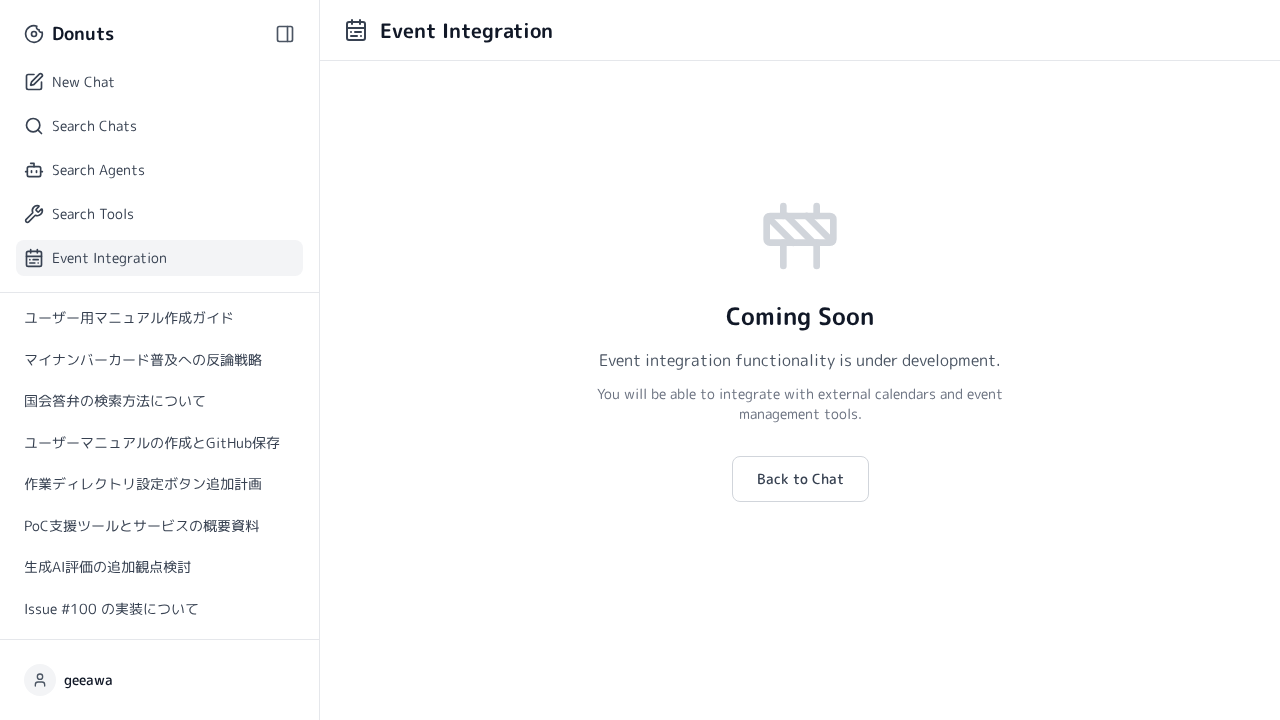
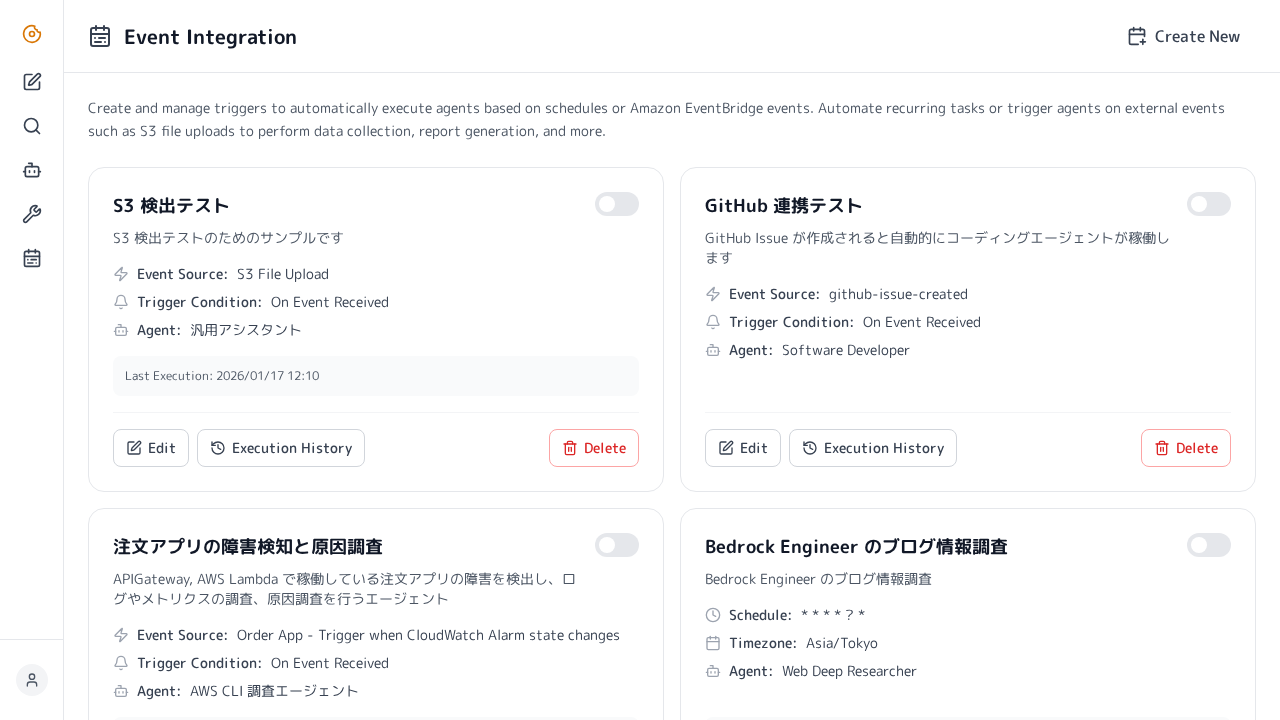
Update Event Integration documentation with comprehensive screenshots
- Added detailed Event Integration section with 5 new screenshots
- Documented Schedule trigger configuration (presets and custom cron)
- Documented Event-Driven trigger configuration (S3, CloudWatch, etc.)
- Added Execution History documentation
- Updated README with new file structure and changelog

diff --git a/index.html b/index.html
@@ -665,7 +665,9 @@
     <section id="events">
         <h2>8. イベント連携</h2>
         
-        <p>Event Integration 機能を使用すると、外部システムとの連携やイベントベースの処理を設定できます。</p>
+        <p>Event Integration 機能を使用すると、スケジュールや外部イベント（S3へのファイルアップロード、CloudWatch アラームなど）をトリガーとして、AIエージェントを自動実行できます。定期的なレポート生成、データ収集、障害検知時の自動調査など、様々な自動化シナリオを実現できます。</p>
+        
+        <h3>イベント連携ページを開く</h3>
         
         <div class="step">
             <span class="step-number">1</span>
@@ -675,14 +677,193 @@
             </div>
         </div>
         
-        <img src="images/07-event-integration.png" alt="イベント連携" class="screenshot">
+        <img src="images/07-event-integration.png" alt="イベント連携一覧画面" class="screenshot">
+        
+        <p>イベント連携の一覧画面では、以下の情報を確認できます：</p>
+        
+        <table>
+            <tr>
+                <th>項目</th>
+                <th>説明</th>
+            </tr>
+            <tr>
+                <td><strong>トリガー名</strong></td>
+                <td>設定したトリガーの名前と説明</td>
+            </tr>
+            <tr>
+                <td><strong>有効/無効スイッチ</strong></td>
+                <td>トリガーの有効・無効を切り替え</td>
+            </tr>
+            <tr>
+                <td><strong>イベントソース</strong></td>
+                <td>スケジュールまたは外部イベントの種類</td>
+            </tr>
+            <tr>
+                <td><strong>実行エージェント</strong></td>
+                <td>トリガー発火時に実行されるAIエージェント</td>
+            </tr>
+            <tr>
+                <td><strong>最終実行日時</strong></td>
+                <td>最後にトリガーが実行された日時</td>
+            </tr>
+        </table>
+        
+        <h3>新しいトリガーを作成する</h3>
+        
+        <div class="step">
+            <span class="step-number">1</span>
+            <span class="step-title">Create New ボタンをクリック</span>
+            <div class="step-content">
+                <p>画面右上の「Create New」ボタンをクリックして、新規トリガー作成モーダルを開きます。</p>
+            </div>
+        </div>
+        
+        <h4>基本設定（Basic Settings）</h4>
+        
+        <img src="images/12-event-create-basic.png" alt="トリガー作成 - 基本設定" class="screenshot">
         
         <div class="step">
             <span class="step-number">2</span>
-            <span class="step-title">イベント設定を確認・編集</span>
+            <span class="step-title">基本情報を入力</span>
             <div class="step-content">
-                <p>イベント連携の設定を確認・編集できます。「Back to Chat」ボタンでチャット画面に戻れます。</p>
+                <p>以下の情報を設定します：</p>
+                <ul>
+                    <li><strong>Trigger Name（必須）</strong>: トリガーの名前（例：「Daily Report Generation」）</li>
+                    <li><strong>Agent to Execute（必須）</strong>: 実行するAIエージェントを選択</li>
+                    <li><strong>Description</strong>: トリガーの目的や説明</li>
+                    <li><strong>Model ID（オプション）</strong>: 使用するAIモデル（未指定の場合はエージェントのデフォルトモデルを使用）</li>
+                    <li><strong>Working Directory（オプション）</strong>: エージェントの作業ディレクトリ</li>
+                    <li><strong>Prompt</strong>: エージェントに送信するメッセージ</li>
+                </ul>
             </div>
+        </div>
+        
+        <h4>トリガー設定（Trigger Configuration）</h4>
+        
+        <div class="step">
+            <span class="step-number">3</span>
+            <span class="step-title">トリガータイプを選択</span>
+            <div class="step-content">
+                <p>「Trigger Configuration」タブで、トリガーの種類を選択します。</p>
+            </div>
+        </div>
+        
+        <img src="images/13-event-trigger-types.png" alt="トリガータイプ選択" class="screenshot">
+        
+        <table>
+            <tr>
+                <th>トリガータイプ</th>
+                <th>説明</th>
+                <th>用途例</th>
+            </tr>
+            <tr>
+                <td><strong>🕐 Schedule</strong></td>
+                <td>指定したスケジュールで自動実行</td>
+                <td>日次レポート、週次バックアップ、定期的なデータ収集</td>
+            </tr>
+            <tr>
+                <td><strong>⚡ Event-Driven</strong></td>
+                <td>外部イベント発生時に実行</td>
+                <td>S3へのファイルアップロード、CloudWatchアラーム、エラーログ検出</td>
+            </tr>
+        </table>
+        
+        <h4>スケジュール設定</h4>
+        
+        <p>「Schedule」を選択した場合、実行タイミングを設定できます。</p>
+        
+        <img src="images/14-event-schedule-config.png" alt="スケジュール設定" class="screenshot">
+        
+        <p><strong>プリセットスケジュール：</strong></p>
+        <ul>
+            <li><strong>Every Minute</strong> - 毎分実行</li>
+            <li><strong>Every Hour</strong> - 毎時実行</li>
+            <li><strong>Every Day (00:00)</strong> - 毎日深夜0時に実行</li>
+            <li><strong>Every Weekday</strong> - 平日のみ実行</li>
+            <li><strong>Every Monday</strong> - 毎週月曜日に実行</li>
+            <li><strong>1st of Every Month</strong> - 毎月1日に実行</li>
+            <li><strong>Custom</strong> - Cron式でカスタム設定</li>
+        </ul>
+        
+        <div class="tip">
+            <p class="tip-title">💡 ヒント：タイムゾーン設定</p>
+            <p>スケジュールは選択したタイムゾーン（デフォルト: Asia/Tokyo）に基づいて実行されます。必要に応じてタイムゾーンを変更してください。</p>
+        </div>
+        
+        <h4>イベント駆動設定</h4>
+        
+        <p>「Event-Driven」を選択した場合、利用可能なイベントソースから選択します。</p>
+        
+        <img src="images/15-event-driven-config.png" alt="イベント駆動設定" class="screenshot">
+        
+        <p><strong>利用可能なイベントソース（例）：</strong></p>
+        <ul>
+            <li><strong>S3 File Upload</strong> - 指定パターンに一致するファイルがS3にアップロードされた時</li>
+            <li><strong>CloudWatch Alarm</strong> - CloudWatchアラームの状態が変化した時</li>
+            <li><strong>Error Log Detection</strong> - アプリケーションのエラーログが検出された時</li>
+            <li><strong>GitHub Issue Created</strong> - GitHubで新しいIssueが作成された時</li>
+        </ul>
+        
+        <div class="tip">
+            <p class="tip-title">💡 ヒント：EventBridge Rule Details</p>
+            <p>各イベントソースの「EventBridge Rule Details」を展開すると、Amazon EventBridgeのルール詳細を確認できます。システム管理者が事前に設定したイベントルールから選択できます。</p>
+        </div>
+        
+        <div class="step">
+            <span class="step-number">4</span>
+            <span class="step-title">保存</span>
+            <div class="step-content">
+                <p>設定が完了したら「Save」ボタンをクリックしてトリガーを保存します。</p>
+            </div>
+        </div>
+        
+        <h3>実行履歴を確認する</h3>
+        
+        <p>各トリガーの「Execution History」ボタンをクリックすると、過去の実行履歴を確認できます。</p>
+        
+        <img src="images/16-event-execution-history.png" alt="実行履歴" class="screenshot">
+        
+        <table>
+            <tr>
+                <th>項目</th>
+                <th>説明</th>
+            </tr>
+            <tr>
+                <td><strong>Status</strong></td>
+                <td>実行状態（completed, failed など）</td>
+            </tr>
+            <tr>
+                <td><strong>Started At</strong></td>
+                <td>実行開始日時</td>
+            </tr>
+            <tr>
+                <td><strong>Completed At</strong></td>
+                <td>実行完了日時</td>
+            </tr>
+            <tr>
+                <td><strong>Duration</strong></td>
+                <td>実行にかかった時間</td>
+            </tr>
+            <tr>
+                <td><strong>Execution ID</strong></td>
+                <td>実行を一意に識別するID</td>
+            </tr>
+        </table>
+        
+        <h3>トリガーの管理</h3>
+        
+        <p>各トリガーカードには以下の操作ボタンがあります：</p>
+        
+        <ul>
+            <li><strong>トグルスイッチ</strong> - トリガーの有効/無効を切り替え</li>
+            <li><strong>Edit</strong> - トリガー設定を編集</li>
+            <li><strong>Execution History</strong> - 実行履歴を表示</li>
+            <li><strong>Delete</strong> - トリガーを削除</li>
+        </ul>
+        
+        <div class="warning">
+            <p class="tip-title">⚠ 注意</p>
+            <p>トリガーを削除すると、関連する実行履歴も削除されます。削除前に必要な情報を確認してください。</p>
         </div>
     </section>
 
